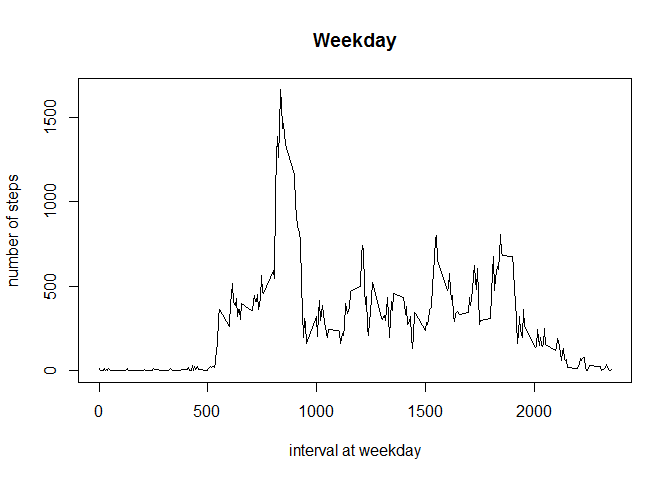
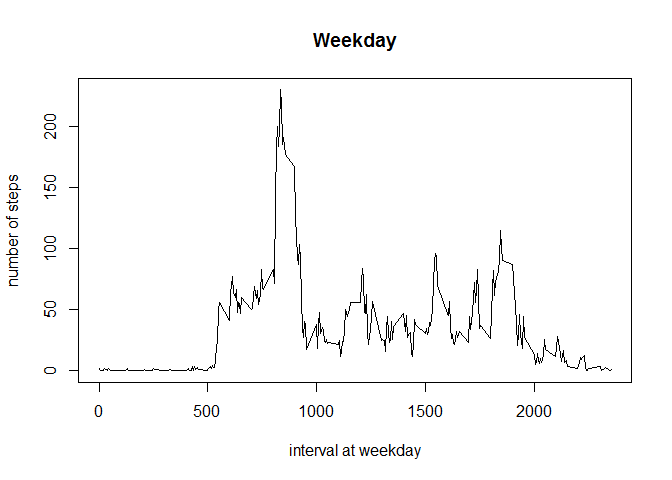
revised
make one correct

diff --git a/PA1_template.html b/PA1_template.html
@@ -124,15 +124,11 @@ ave_per_day &lt;- summarize(act1, total=sum(steps, na.rm=T), mean = mean(steps, 
 <p>In this section we will average the number of steps across each 5 min interval, this will give us an idea of the periods where the person might be the most and the least active.</p>
 <p>We group the data by interval this time and then calculate the mean of each interval goup:</p>
 <pre class="r"><code>act2 &lt;- group_by(act, interval)
-ave_interval &lt;- summarize(act2, total= sum(steps,na.rm=T), mean = mean(steps, na.rm = T))
-plot(ave_interval$interval, ave_interval$total, type = &quot;l&quot;, xlab = &quot;interval&quot;, ylab = &quot;mean of steps&quot;)</code></pre>
[1 lines of base64/hex data omitted]
-<pre class="r"><code>max_point &lt;- ave_interval[ave_interval$toal== max(ave_interval$total),]
-max_point</code></pre>
-<pre><code>## Source: local data frame [0 x 3]
-## 
-## Variables not shown: interval (int), total (int), mean (dbl)</code></pre>
-<p>We can observe the largest amount of steps occurs between time intervals 500 and 1000. The maximum average number of steps is: 206 and occurs in time interval #835</p>
+ave_interval &lt;- summarize(act2, mean = mean(steps, na.rm = T))
+plot(ave_interval$interval, ave_interval$mean, type = &quot;l&quot;, xlab = &quot;interval&quot;, ylab = &quot;mean of steps&quot;)
+max_point &lt;- ave_interval[ave_interval$mean== max(ave_interval$mean),]
+points(max_point$interval, max_point$interval, col=&quot;red&quot;,pch=11)</code></pre>
[1 lines of base64/hex data omitted]
 </div>
 <div id="imputing-missing-values" class="section level2">
 <h2>Imputing missing values</h2>
@@ -154,7 +150,7 @@ newdata &lt;- group_by(act3, date)</code></pre>
 <pre class="r"><code>ave_newdata &lt;- summarize(newdata, total=sum(steps), mean = mean(steps))
 
 hist(ave_newdata$total, breaks = 15, ylab = &quot;frequency&quot;, xlab=&quot;total steps per day&quot;, main=&quot;&quot;)</code></pre>
[2 lines of base64/hex data omitted]
 <p>This figure shows, similarly to the first histogram, symmetrically distributed data around the maximum without the column in the extreme left (which contained the days with missing data). One must notice that filling values with the interval means increases the frequencies in the 10000-12500 class, which contains the median.</p>
 <pre class="r"><code>## compare the mean and sd before and after mutating NA, we see the sd decrease 40%,
 summary(ave_per_day$total)</code></pre>
@@ -164,9 +160,9 @@ summary(ave_per_day$total)</code></pre>
 <pre><code>## [1] 5405.895</code></pre>
 <pre class="r"><code>summary(ave_newdata$total)</code></pre>
 <pre><code>##    Min. 1st Qu.  Median    Mean 3rd Qu.    Max. 
-##      41    9819   11460   84190   15080  570600</code></pre>
+##      41    9819   10770   10770   12810   21190</code></pre>
 <pre class="r"><code>sd(ave_newdata$total)</code></pre>
-<pre><code>## [1] 190590.9</code></pre>
+<pre><code>## [1] 3974.391</code></pre>
 <p>The mean and the median stay the same, however the 1st quantile of the new data slides closer to the mean. When we look at the standard deviation values, we can also observe that the new data has a smaller standard deviation, thus the effect of imputing NAs with the mean values for the time intervals is a decrease in the spread, we obtained a distribution that is more concentrated around the center of gravity.</p>
 </div>
 <div id="are-there-differences-in-activity-patterns-between-weekdays-and-weekends" class="section level2">
@@ -188,10 +184,10 @@ wend1 &lt;- wend %&gt;% group_by(interval) %&gt;% summarize(total=sum(steps), me
 
 plot(wday1$interval, wday1$mean, type = &quot;l&quot;, main=&quot;Weekday&quot;, 
      xlab = &quot;interval at weekday&quot;, ylab = &quot;number of steps&quot;)</code></pre>
[2 lines of base64/hex data omitted]
 <pre class="r"><code>plot(wend1$interval, wend1$mean, type = &quot;l&quot;, main=&quot;Weekend&quot;, 
      xlab = &quot;interval at weekend&quot;, ylab = &quot;number of steps&quot;)</code></pre>
[2 lines of base64/hex data omitted]
 <p>We observe that, as expected, the activity profiles between weekdays and weekends greatly differ. During the weekdays, activity peaks in the morning between 7 and 9 and then the activity remains below ~100 steps. In contrast, the weekend data does not show a period with particularly high level of activity, but the activity remains higher than the weekday activity at most times and in several instances it surpases the 100 steps mark and it is overall more evenly distributed throughout the day.</p>
 </div>
 

diff --git a/PA1_template.md b/PA1_template.md
@@ -118,26 +118,18 @@ We group the data by interval this time and then calculate the mean of each inte
 
 ```r
 act2 <- group_by(act, interval)
-ave_interval <- summarize(act2, total= sum(steps,na.rm=T), mean = mean(steps, na.rm = T))
-plot(ave_interval$interval, ave_interval$total, type = "l", xlab = "interval", ylab = "mean of steps")
+ave_interval <- summarize(act2, mean = mean(steps, na.rm = T))
+plot(ave_interval$interval, ave_interval$mean, type = "l", xlab = "interval", ylab = "mean of steps")
+max_point <- ave_interval[ave_interval$mean== max(ave_interval$mean),]
+points(max_point$interval, max_point$interval, col="red",pch=11)
 ```
 
 ![](PA1_template_files/figure-html/unnamed-chunk-7-1.png) 
-
-```r
-max_point <- ave_interval[ave_interval$toal== max(ave_interval$total),]
-max_point
-```
-
-```
-## Source: local data frame [0 x 3]
-## 
-## Variables not shown: interval (int), total (int), mean (dbl)
-```
 We can observe the largest amount of steps occurs between time intervals 500 and 1000. The maximum average number of steps is: 206 and occurs in time interval #835
 
 ## Imputing missing values
 We noticed that there are missing values when we printed the first few rows of the act data, but so far we have not determined how many values are missing. The following lines will calculate the percentage of missing data as well as the number of rows that contain an NA.
+
 
 ```r
 sum(is.na(act))
@@ -205,7 +197,7 @@ summary(ave_newdata$total)
 
 ```
 ##    Min. 1st Qu.  Median    Mean 3rd Qu.    Max. 
-##      41    9819   11460   84190   15080  570600
+##      41    9819   10770   10770   12810   21190
 ```
 
 ```r
@@ -213,7 +205,7 @@ sd(ave_newdata$total)
 ```
 
 ```
-## [1] 190590.9
+## [1] 3974.391
 ```
 The mean and the median stay the same, however the 1st quantile of the new data slides closer to the mean. When we look at the standard deviation values, we can also observe that the new data has a smaller standard deviation, thus the effect of imputing NAs with the mean values for the time intervals is a decrease in the spread, we obtained a distribution that is more concentrated around the center of gravity.
 
